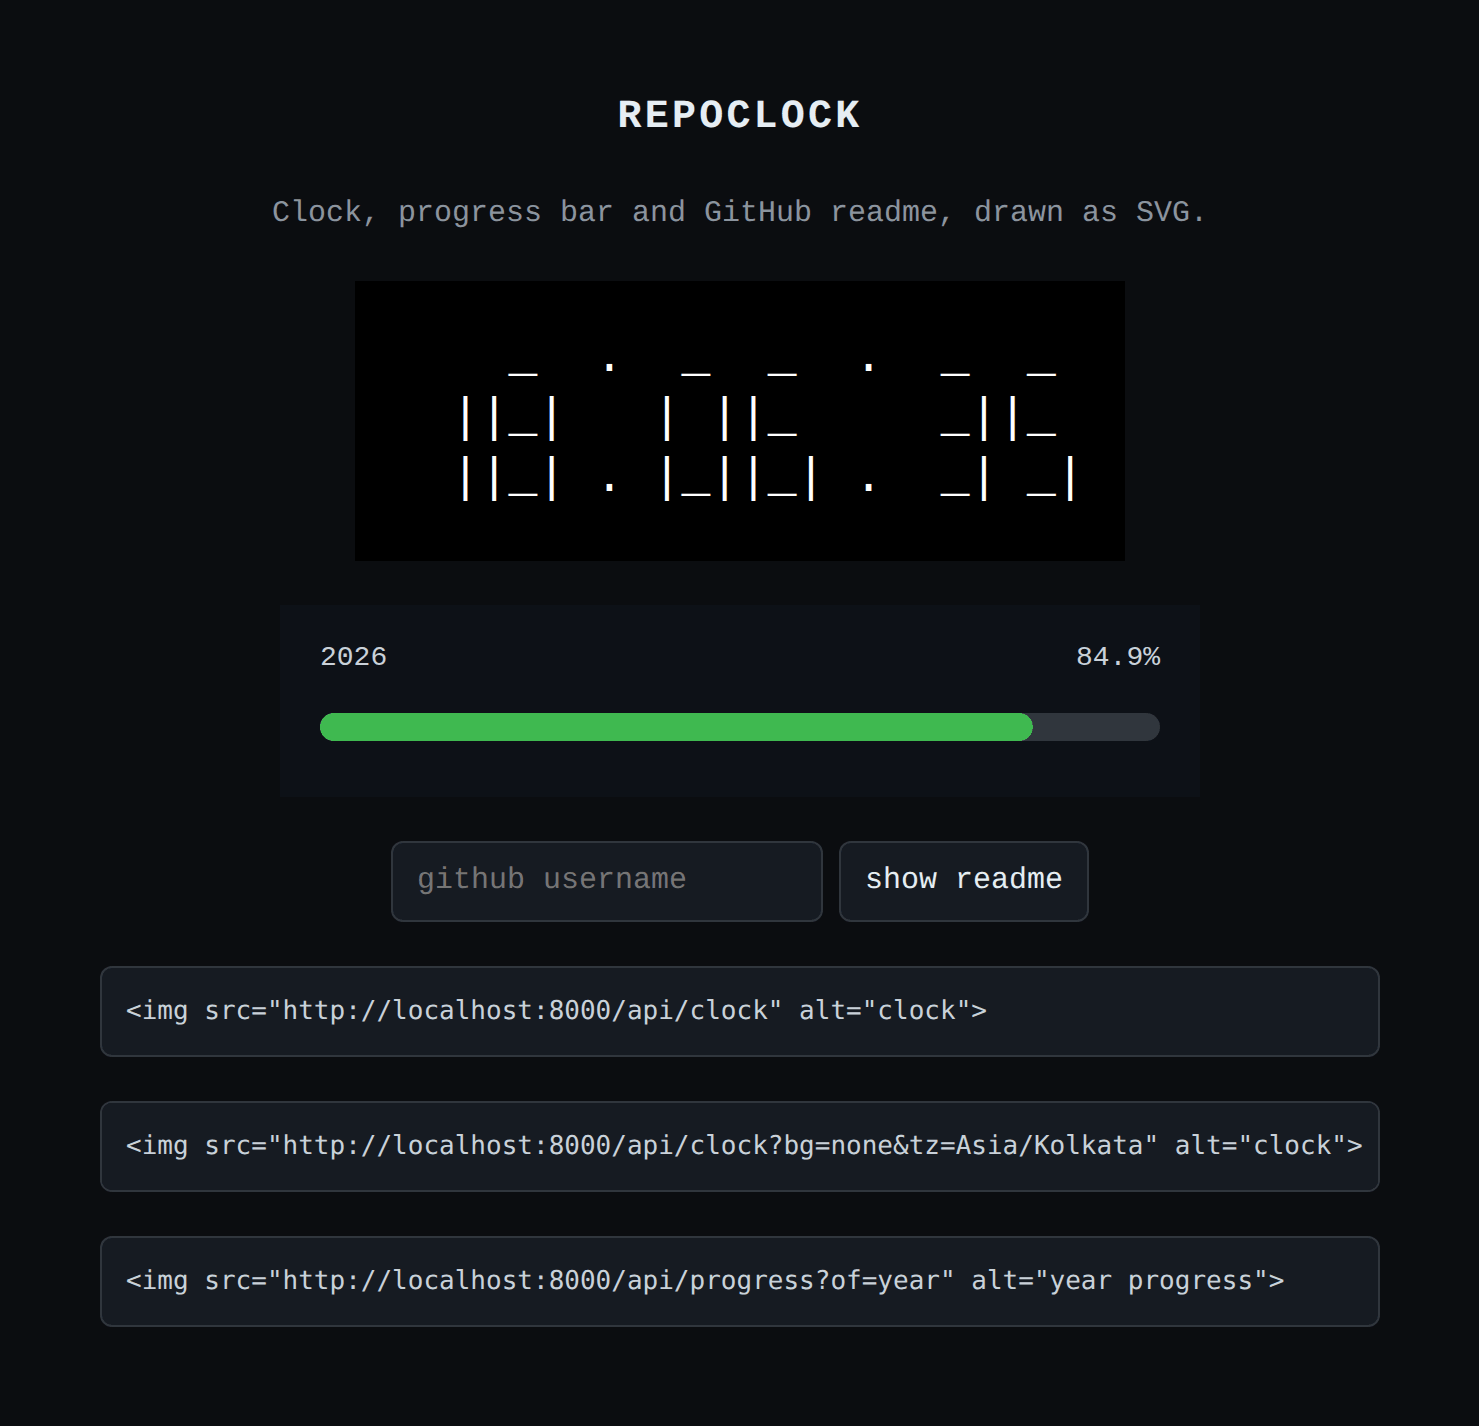
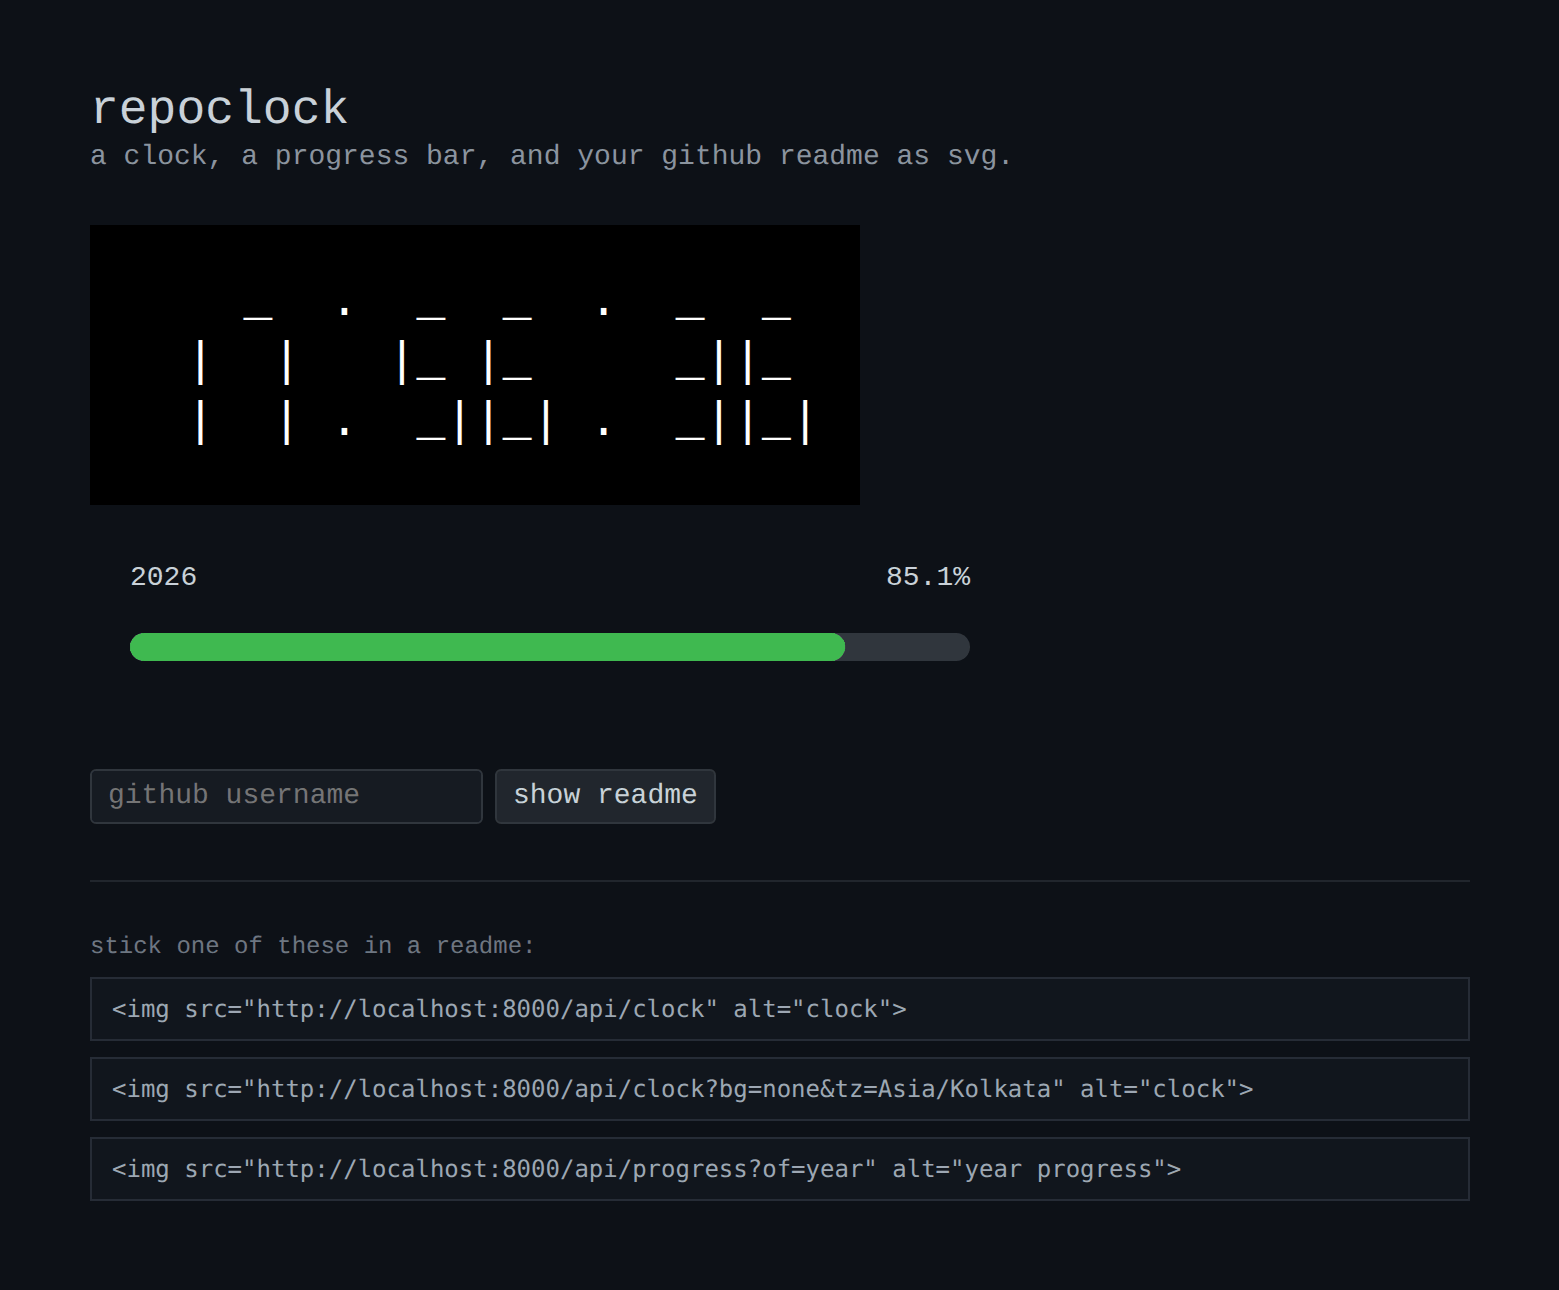
update  structure in server.py for improved layout and readability

diff --git a/server.py b/server.py
@@ -36,52 +36,49 @@ PAGE = """<!doctype html>
 <meta name="viewport" content="width=device-width, initial-scale=1">
 <title>repoclock</title>
 <style>
-:root { color-scheme: dark; }
-* { box-sizing: border-box; }
 body {
   margin: 0;
-  min-height: 100vh;
-  display: flex;
-  flex-direction: column;
-  align-items: center;
-  justify-content: center;
-  gap: 22px;
-  padding: 32px 20px;
-  background: #0b0d10;
-  color: #e6edf3;
-  font: 15px/1.5 ui-monospace, "Courier New", monospace;
-}
-h1 { margin: 0; font-size: 20px; letter-spacing: .08em; text-transform: uppercase; }
-p { margin: 0; color: #8b949e; text-align: center; }
-img { max-width: 100%; height: auto; }
-form { display: flex; gap: 8px; flex-wrap: wrap; justify-content: center; }
-input, button {
-  border: 1px solid #30363d;
-  background: #161b22;
-  color: inherit;
-  padding: 8px 12px;
-  border-radius: 6px;
-  font: inherit;
-}
-button { cursor: pointer; }
-button:hover { border-color: #8b949e; }
-a { color: #58a6ff; }
-pre {
-  width: min(640px, 100%);
-  margin: 0;
-  overflow-x: auto;
-  background: #161b22;
-  border: 1px solid #30363d;
-  border-radius: 6px;
-  padding: 12px;
-  font-size: 13px;
+  padding: 42px 20px 60px;
+  background: #0d1117;
   color: #c9d1d9;
+  font-family: "Courier New", monospace;
+  font-size: 14px;
 }
+main { max-width: 690px; margin: 0 auto; }
+h1 { margin: 0 0 2px; font-size: 24px; font-weight: normal; }
+p { margin: 0 0 14px; }
+.sub { color: #8b949e; margin-bottom: 26px; }
+img { display: block; max-width: 100%; height: auto; }
+img + img { margin-top: 10px; }
+form { display: flex; gap: 6px; flex-wrap: wrap; margin: 26px 0 10px; }
+input, button {
+  font: inherit;
+  padding: 5px 8px;
+  background: #161b22; 
+  color: #c9d1d9;
+  border: 1px solid #30363d;
+  border-radius: 3px;
+}
+button { background: #21262d; cursor: pointer; }
+button:active { background: #30363d; }
+a { color: #58a6ff; }
+hr { border: 0; border-top: 1px solid #21262d; margin: 28px 0 12px; }
+pre {
+  margin: 8px 0;
+  padding: 8px 10px;
+  overflow-x: auto;
+  background: #11161d;
+  border: 1px solid #262c36;
+  font-size: 12px;
+  color: #9da7b3;
+}
+.note { color: #6e7681; font-size: 12px; margin: 26px 0 8px; }
 </style>
 </head>
 <body>
+<main>
 <h1>repoclock</h1>
-<p>Clock, progress bar and GitHub readme, drawn as SVG.</p>
+<p class="sub">a clock, a progress bar, and your github readme as svg.</p>
 
 <img id="clock" src="/api/clock" alt="clock">
 <img id="progress" src="/api/progress" alt="progress">
@@ -93,9 +90,12 @@ pre {
 
 {intro}
 
+<hr>
+<p class="note">stick one of these in a readme:</p>
 <pre>&lt;img src="http://localhost:8000/api/clock" alt="clock"&gt;</pre>
 <pre>&lt;img src="http://localhost:8000/api/clock?bg=none&amp;tz=Asia/Kolkata" alt="clock"&gt;</pre>
 <pre>&lt;img src="http://localhost:8000/api/progress?of=year" alt="year progress"&gt;</pre>
+</main>
 
 <script>
 var clock = document.getElementById("clock");
